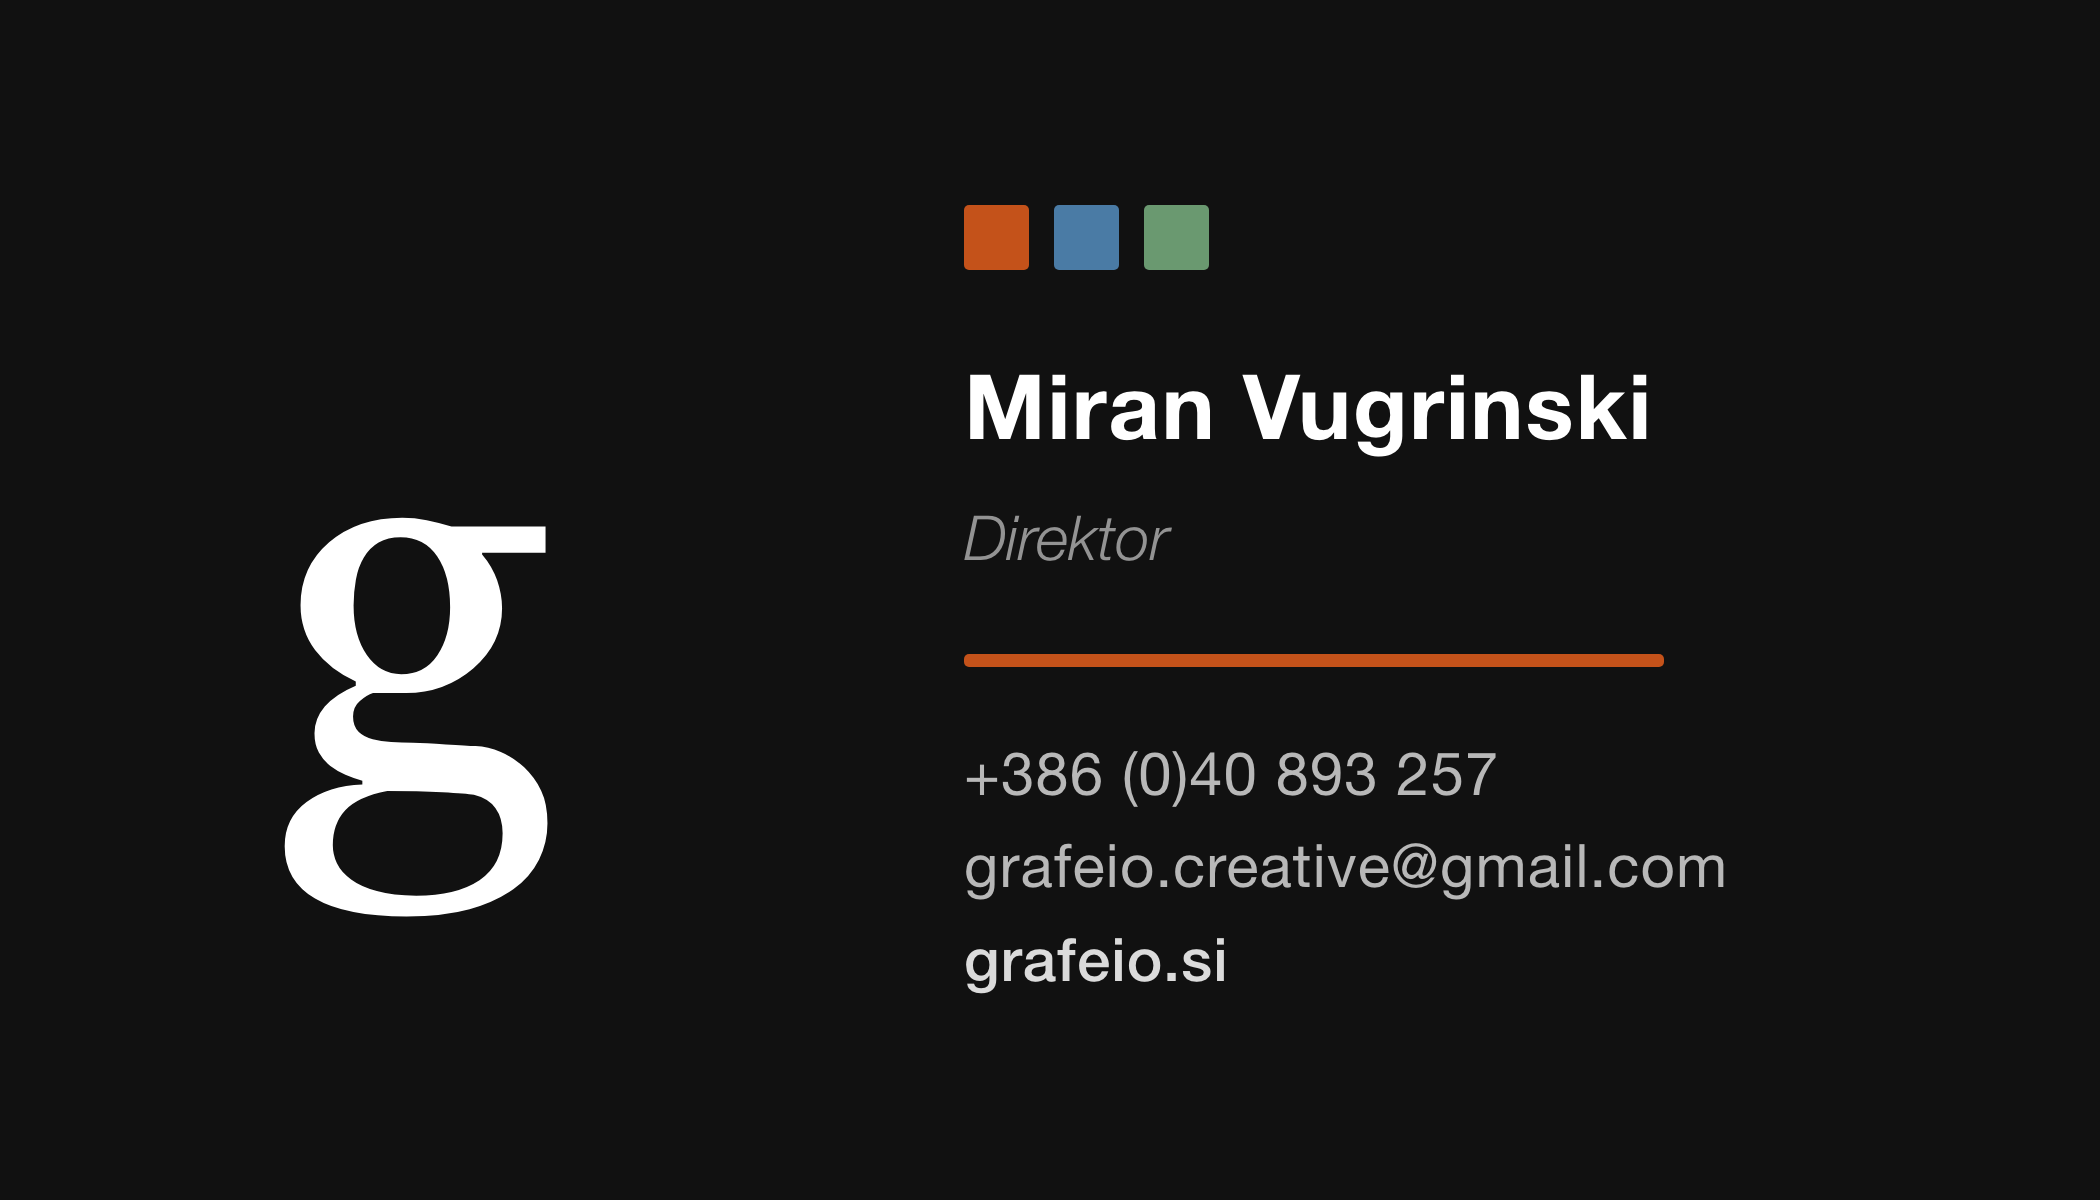
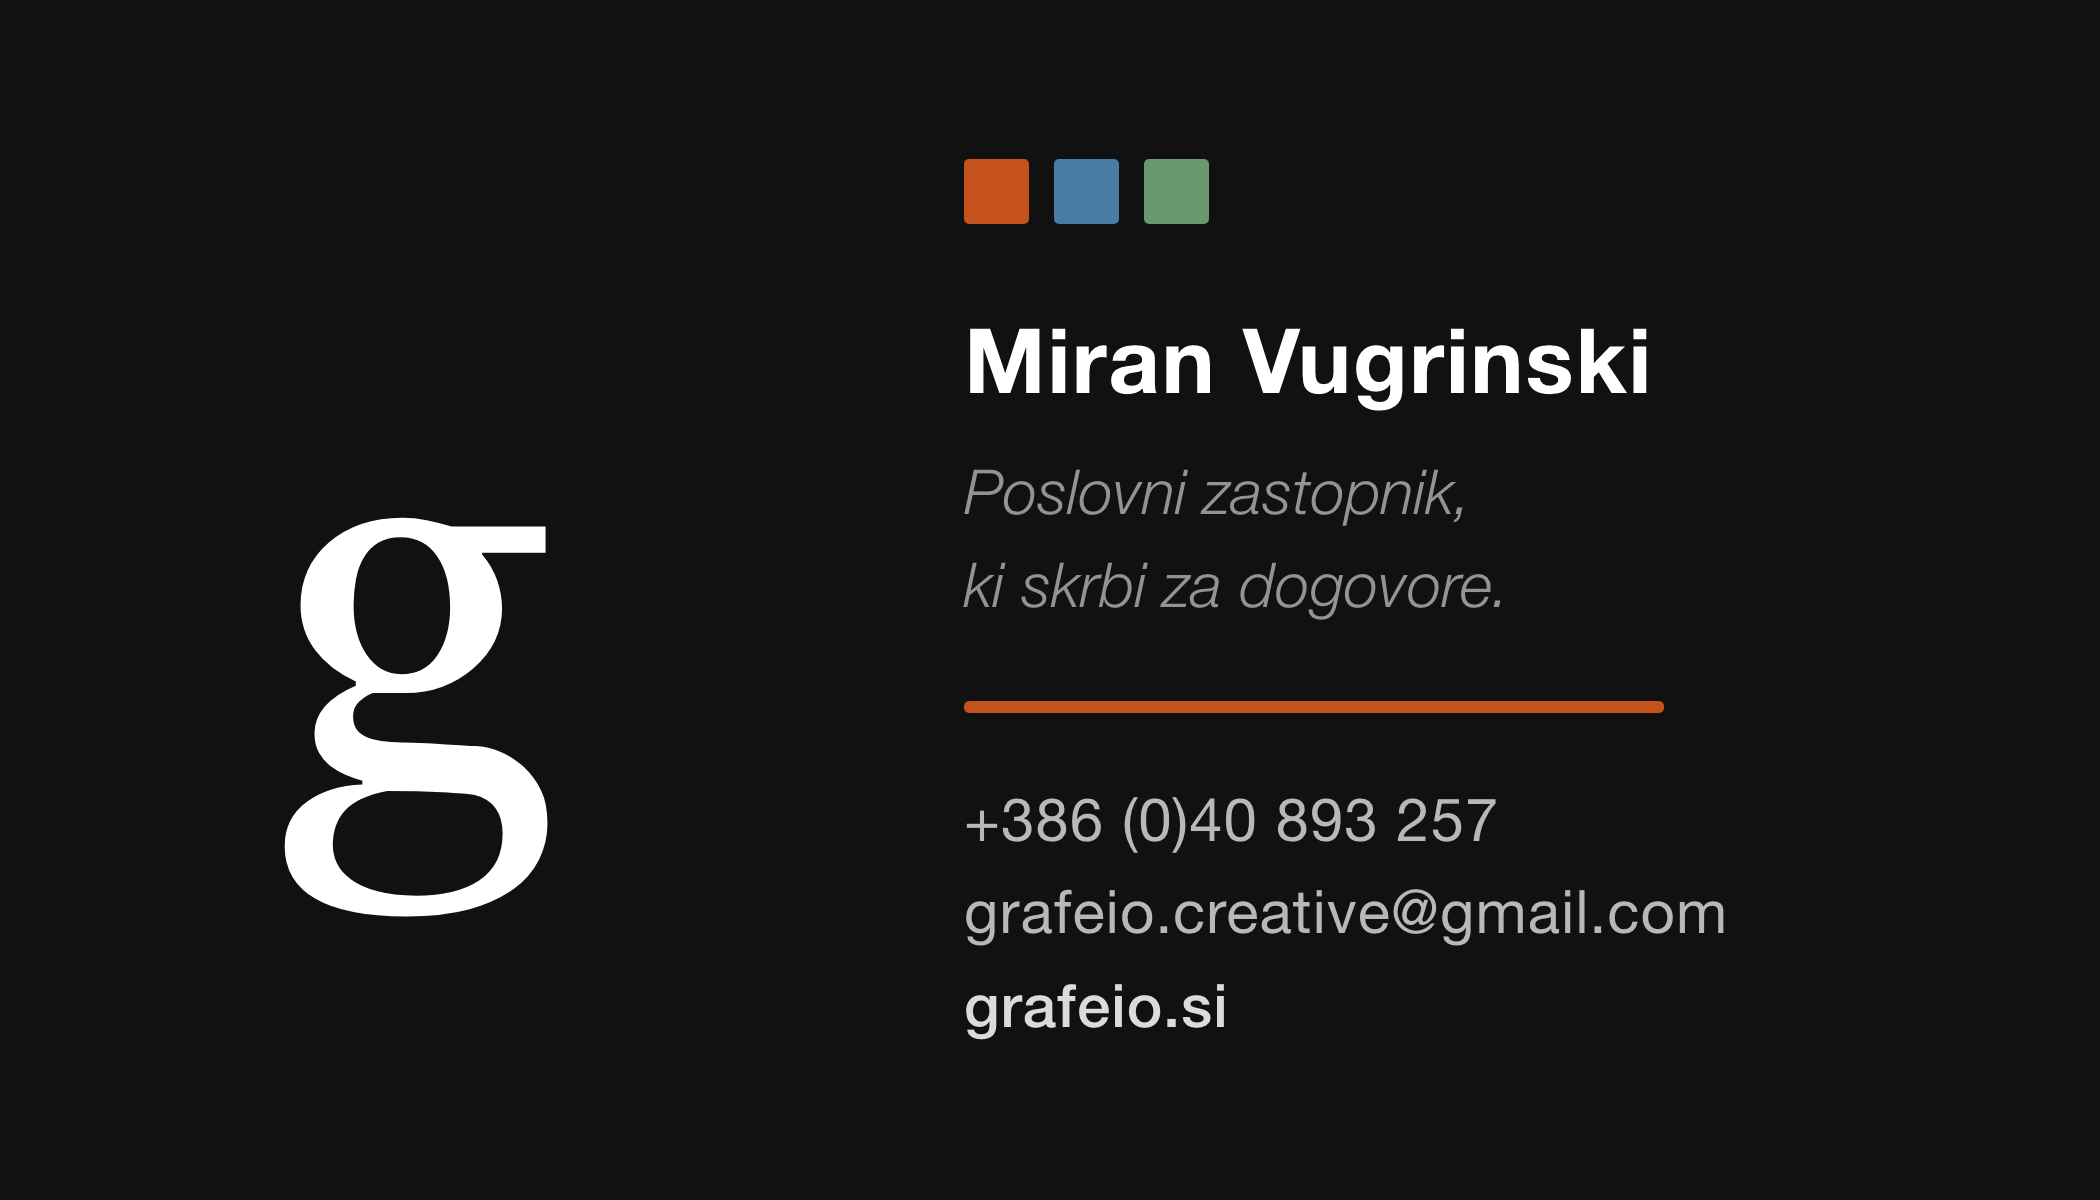
Replace Miran's title with a descriptive tagline
'Direktor' swapped for 'Poslovni zastopnik, ki skrbi za dogovore.' to match
the personal-motto style Mojca and Barbara use, since the s.p. isn't
officially registered yet.

Changed region(s): [[0.4643, 0.5858, 0.8357, 0.8633], [0.4643, 0.2775, 0.8048, 0.555], [0.4333, 0.1233, 0.5881, 0.2467]]

diff --git a/miran.html b/miran.html
@@ -9,11 +9,11 @@
 <link rel="apple-touch-icon" href="/apple-touch-icon.png">
 <meta name="robots" content="noindex, nofollow">
 <title>Miran Vugrinski · GRAFEIO</title>
-<meta name="description" content="Direktor. Gradnik odličnosti.">
+<meta name="description" content="Poslovni zastopnik, ki skrbi za dogovore. Gradnik odličnosti.">
 <meta property="og:type" content="profile">
 <meta property="og:url" content="https://grafeio.si/miran">
 <meta property="og:title" content="Miran Vugrinski · GRAFEIO">
-<meta property="og:description" content="Direktor. Gradnik odličnosti.">
+<meta property="og:description" content="Poslovni zastopnik, ki skrbi za dogovore. Gradnik odličnosti.">
 <meta property="og:image" content="https://grafeio.si/vizitke/vizitka-miran-front.png">
 <meta name="twitter:card" content="summary_large_image">
 <meta name="twitter:image" content="https://grafeio.si/vizitke/vizitka-miran-front.png">
@@ -65,7 +65,7 @@ body{font-family:'Helvetica Neue','Liberation Sans',Helvetica,Arial,sans-serif;b
       <div class="front-right">
         <div class="squares"><div class="sq sq-t"></div><div class="sq sq-s"></div><div class="sq sq-g"></div></div>
         <div class="front-name">Miran Vugrinski</div>
-        <div class="front-tagline">Direktor</div>
+        <div class="front-tagline">Poslovni zastopnik,<br>ki skrbi za dogovore.</div>
         <div class="accent-line"></div>
         <div class="front-contact">
           <span>+386 (0)40 893 257</span>
@@ -108,7 +108,7 @@ body{font-family:'Helvetica Neue','Liberation Sans',Helvetica,Arial,sans-serif;b
 <div class="hint">Klikni na vizitko za obrat</div>
 <script>
 function downloadVCard(){
-  const v=['BEGIN:VCARD','VERSION:3.0','FN:Miran Vugrinski','N:Vugrinski;Miran;;;','ORG:GRAFEIO','TITLE:Direktor','TEL;TYPE=WORK,VOICE:+38640893257','EMAIL;TYPE=WORK:grafeio.creative@gmail.com','URL:https://grafeio.si','NOTE:GRAFEIO · Gradnik odličnosti','END:VCARD'].join('\r\n');
+  const v=['BEGIN:VCARD','VERSION:3.0','FN:Miran Vugrinski','N:Vugrinski;Miran;;;','ORG:GRAFEIO','TITLE:Poslovni zastopnik, ki skrbi za dogovore.','TEL;TYPE=WORK,VOICE:+38640893257','EMAIL;TYPE=WORK:grafeio.creative@gmail.com','URL:https://grafeio.si','NOTE:GRAFEIO · Gradnik odličnosti','END:VCARD'].join('\r\n');
   const b=new Blob([v],{type:'text/vcard;charset=utf-8'});
   const u=URL.createObjectURL(b);
   const a=document.createElement('a');a.href=u;a.download='Miran-Vugrinski-GRAFEIO.vcf';
